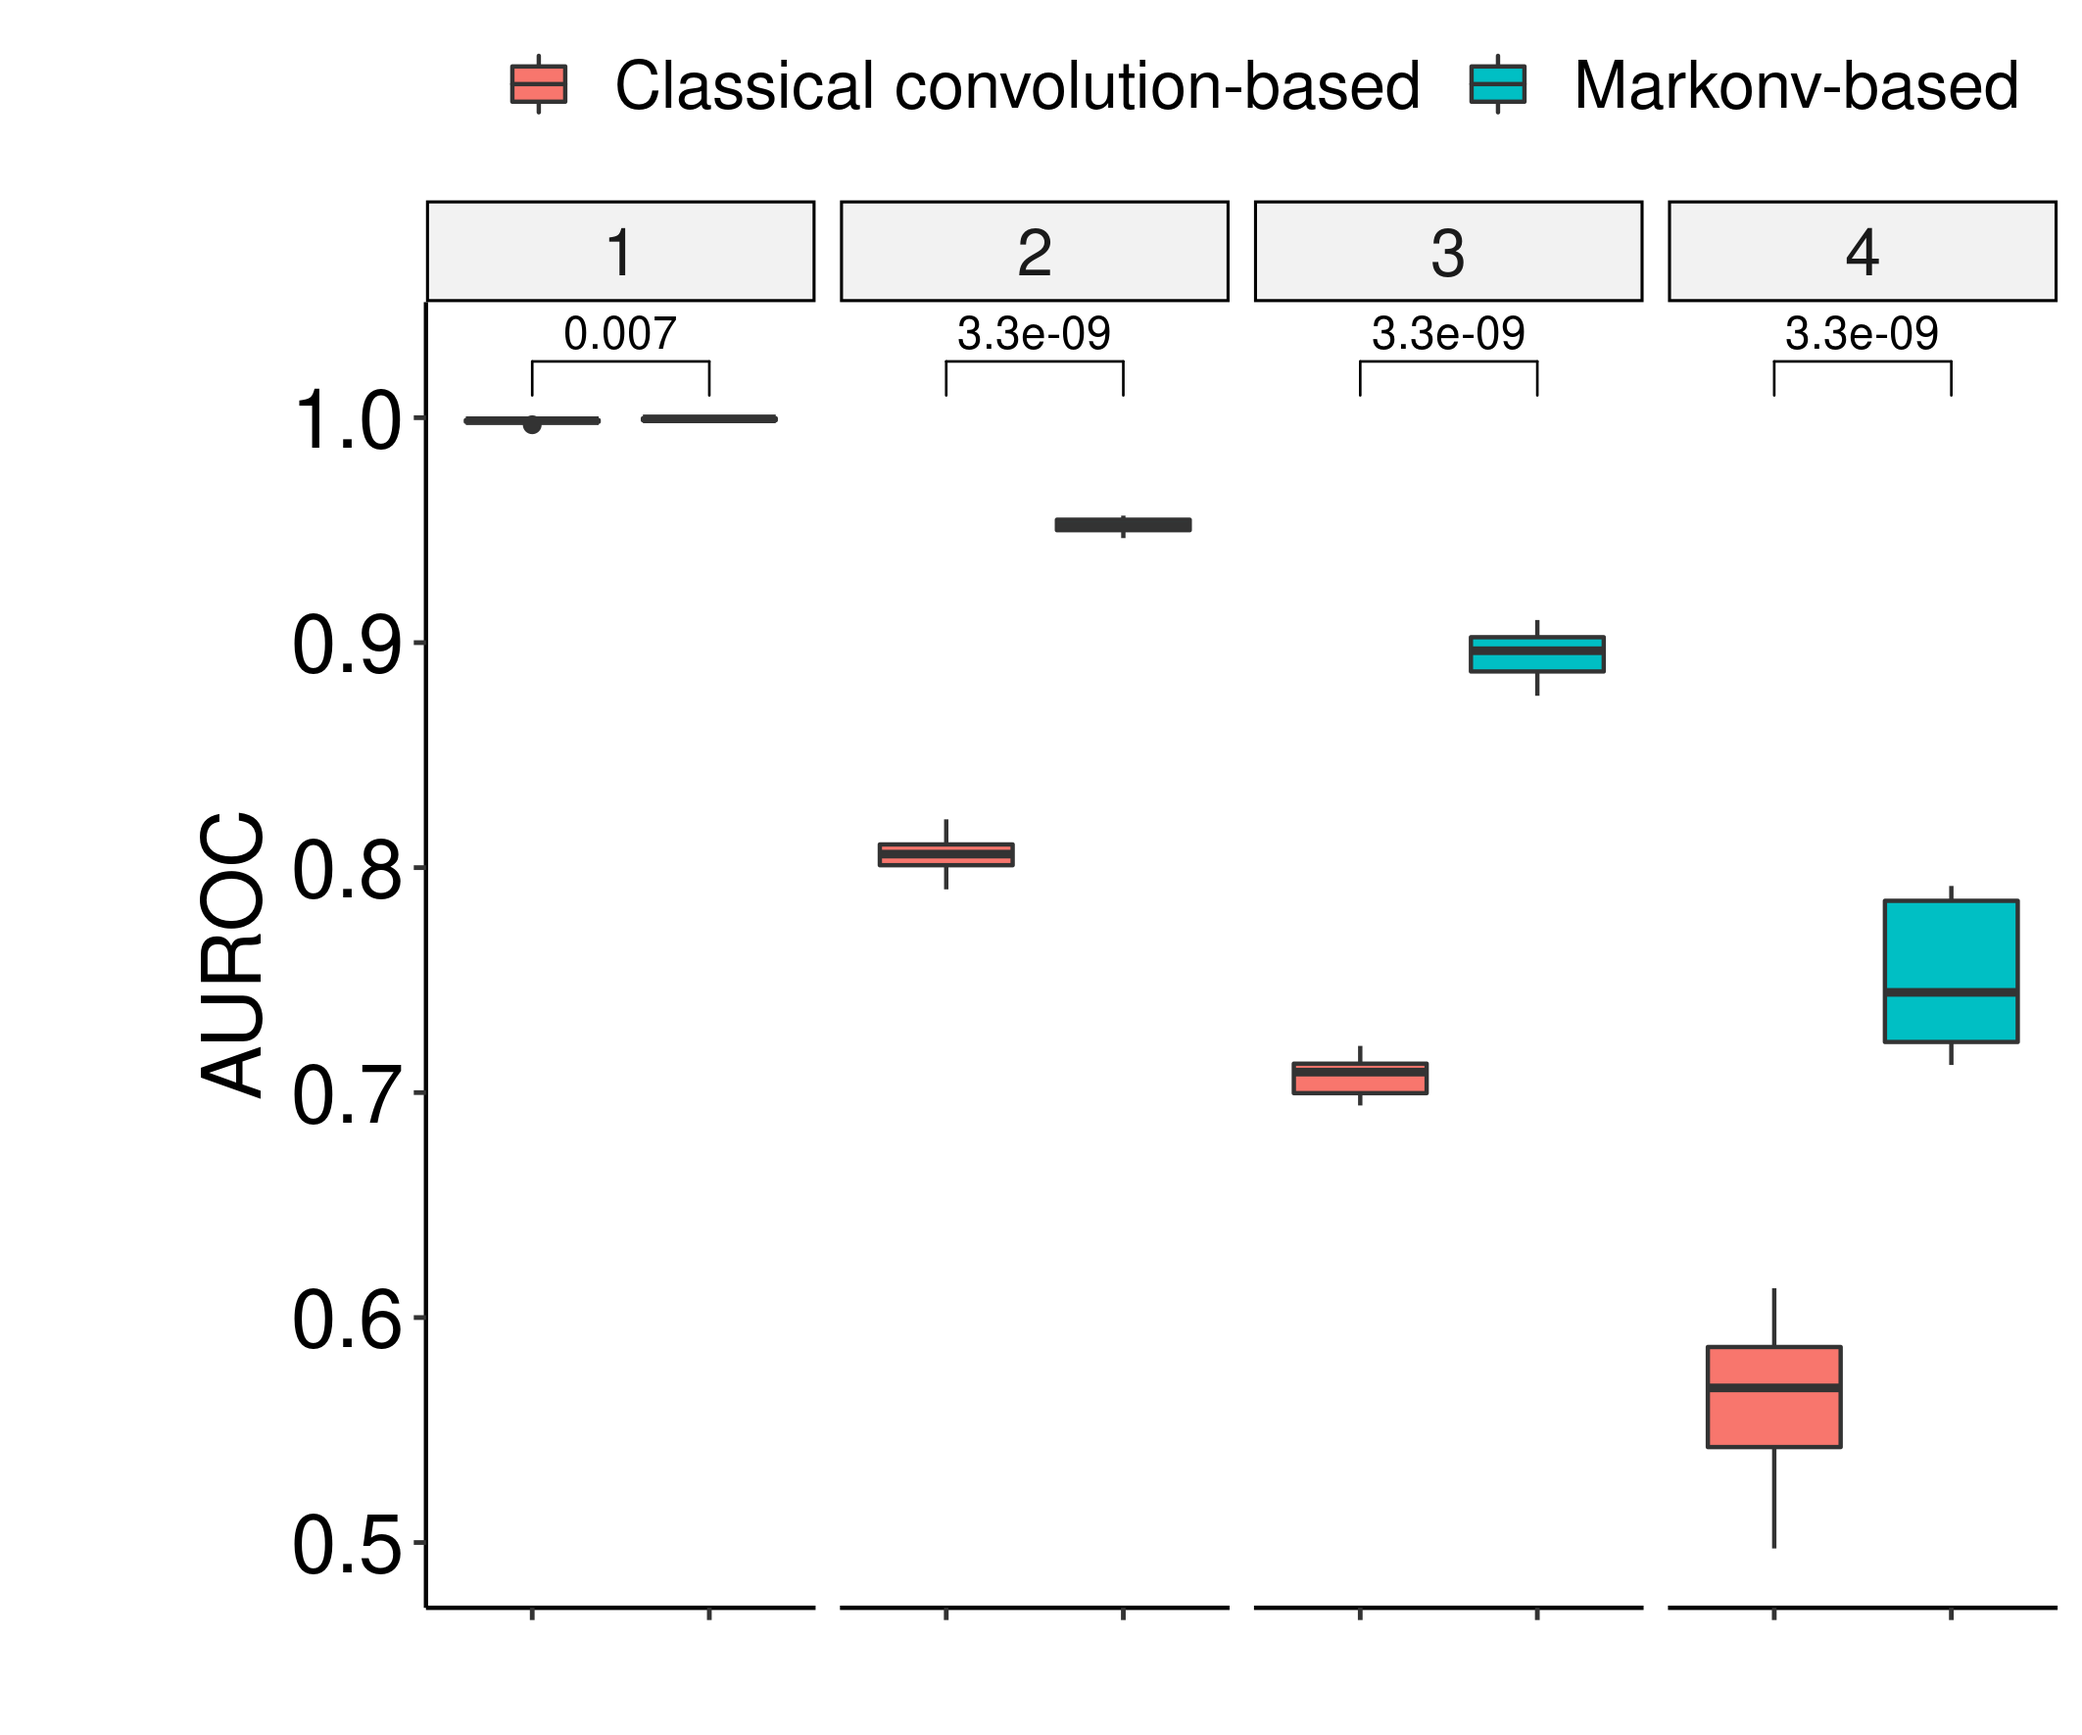
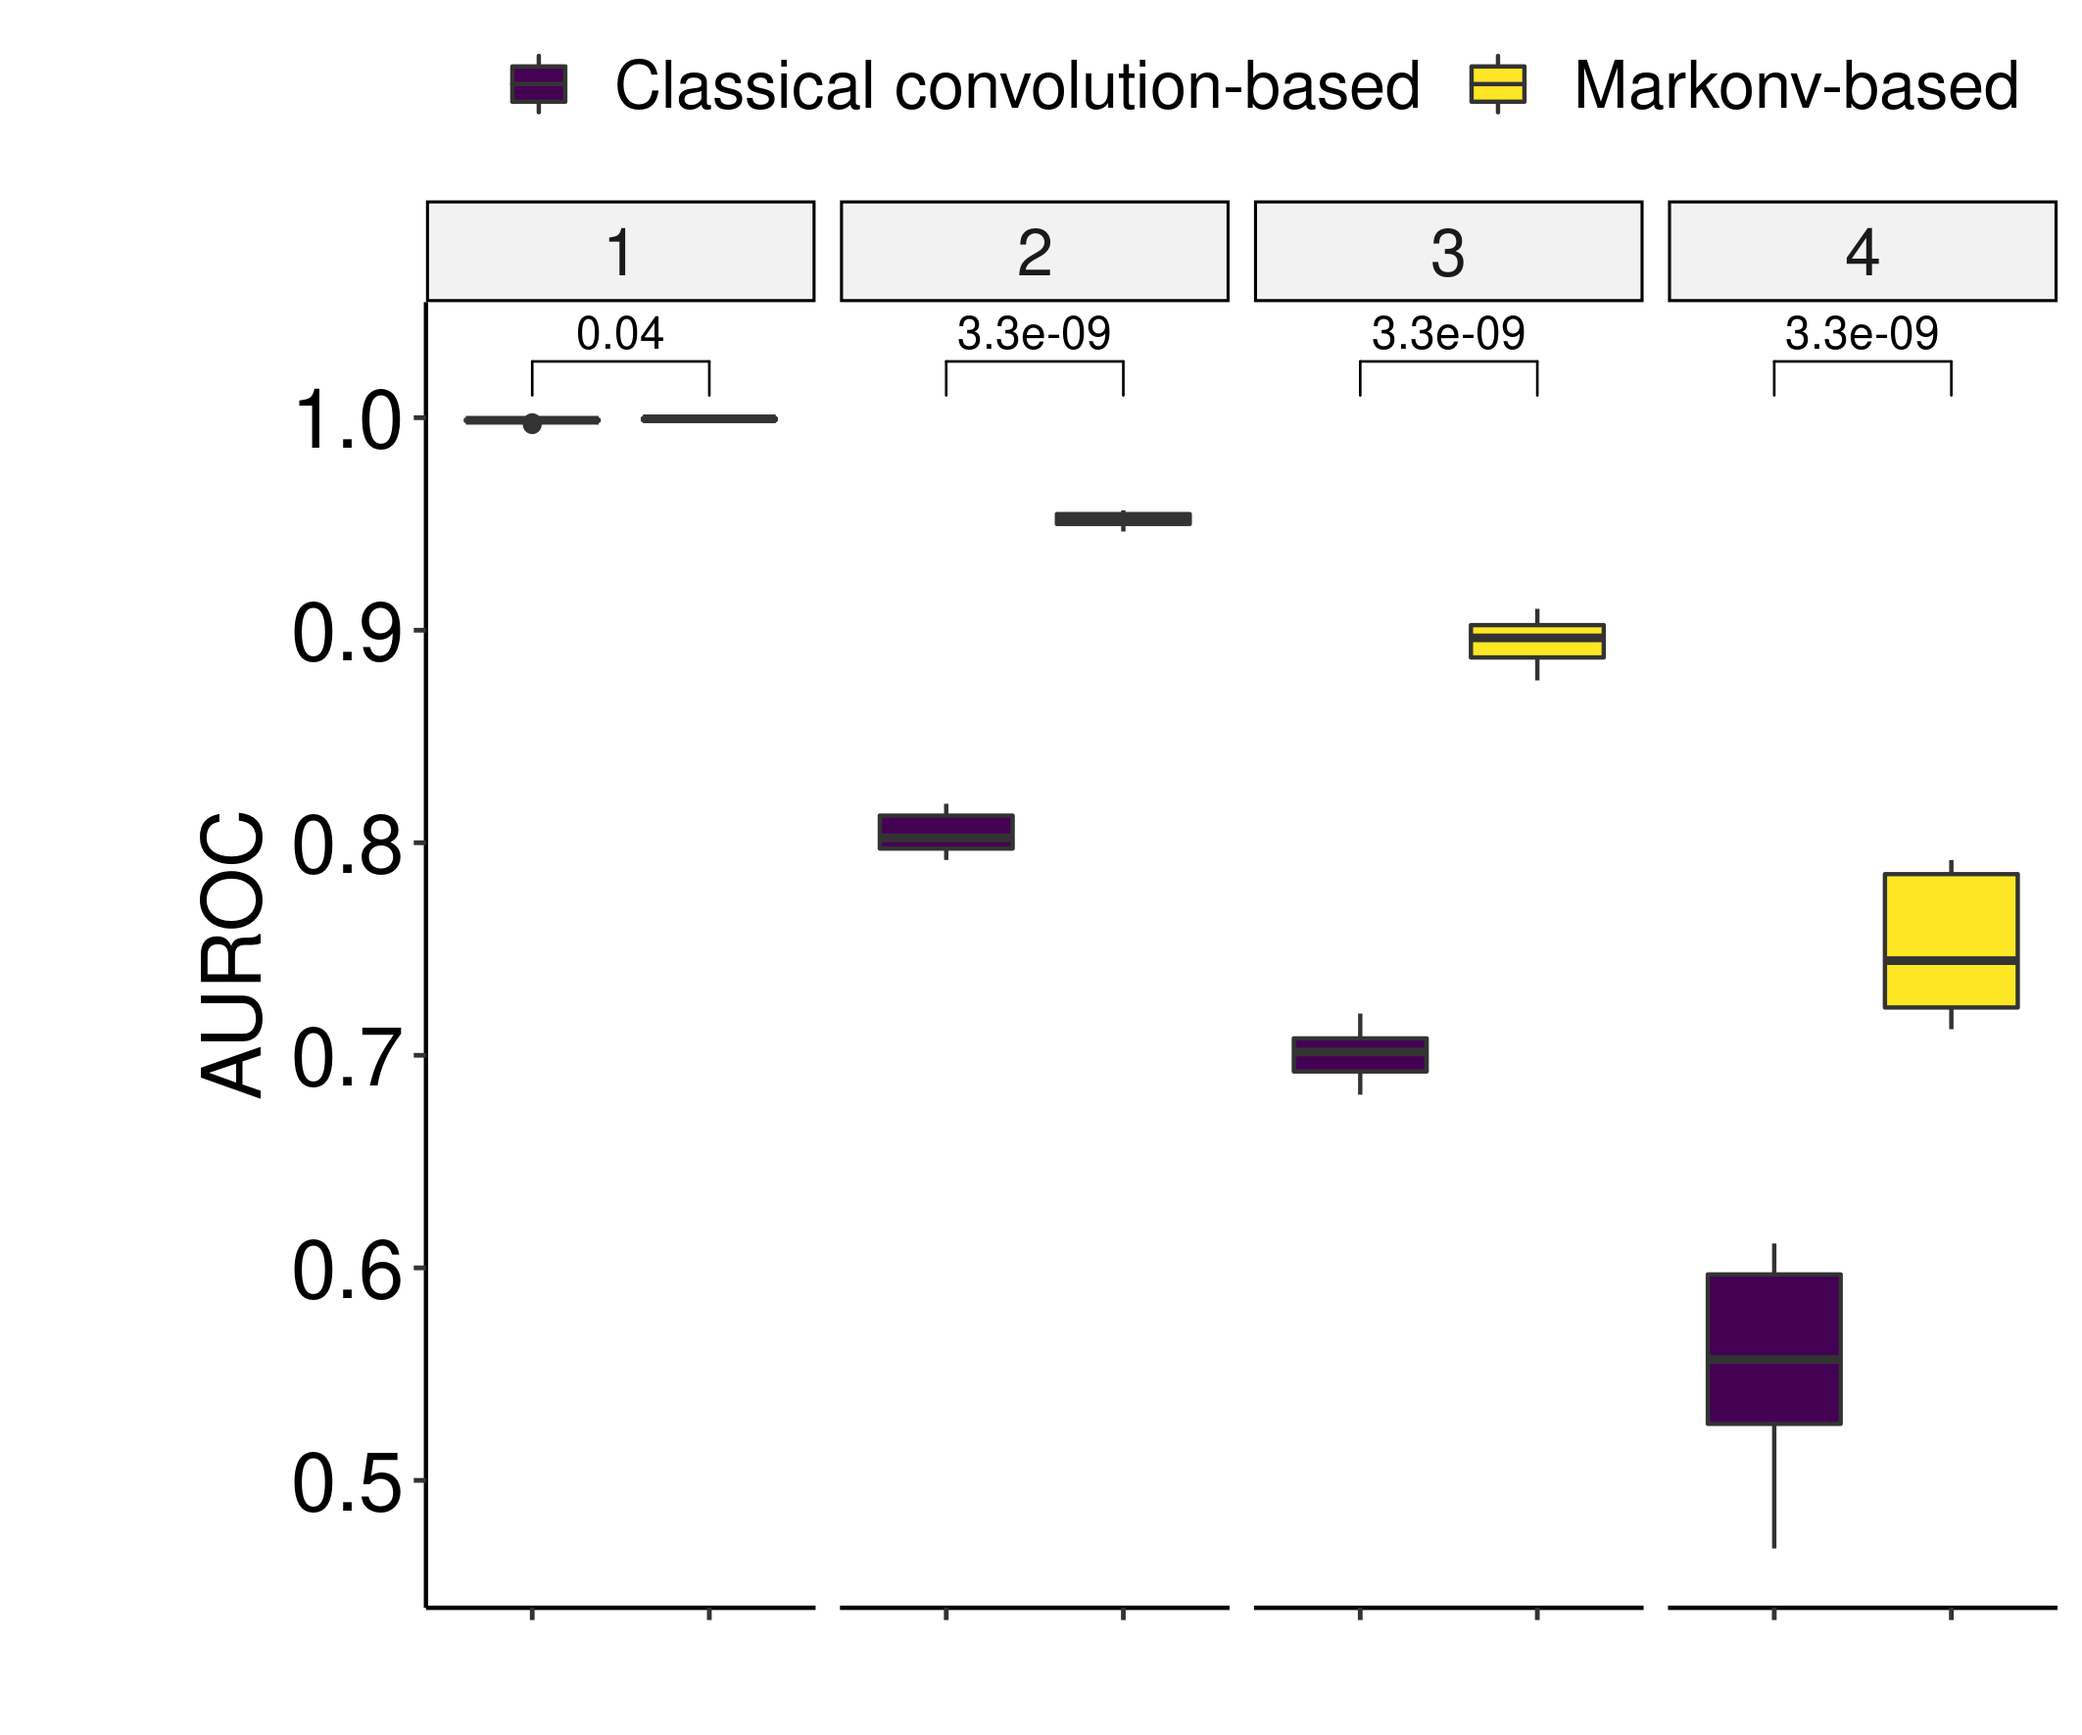
change color and direction of figures

diff --git a/external/simulation/GeneRateMarcov.py b/external/simulation/GeneRateMarcov.py
@@ -140,9 +140,9 @@ def visualize(path, lenlist, seed, complexityChoice):
                                 yticklabels=["A","C","G","T"],
                                 linewidths=0)
                     ax.set_yticklabels(ax.get_yticklabels(), rotation=0)
-                    ax.set_title("S1",fontsize=15)
+                    ax.set_title(r"$P_1$",fontsize=15)
                 else:
-                    sns.heatmap(MTM[:, :, k].reshape(4, 4),
+                    sns.heatmap(MTM[:, :, k].reshape(4, 4).T,
                                 ax=ax,
                                 annot=True,
                                 vmin=0,
@@ -152,7 +152,9 @@ def visualize(path, lenlist, seed, complexityChoice):
                                 xticklabels=["A","C","G","T"],
                                 yticklabels=False,
                                 linewidths=0)
-                    ax.set_title(f"S{k} → S{k+1}",fontsize=15)
+
+                    ktem = k+1
+                    ax.set_title(f"$P_{k} → P_{{{ktem}}}$",fontsize=15)
                 ax.xaxis.tick_top()
                 ax.tick_params(bottom=False,top=False,left=False,right=False)
 
@@ -205,10 +207,10 @@ def drawMotif():
                                 linewidths=0)
                     ax.set_yticklabels(ax.get_yticklabels(), rotation=0)
                     if i == 0:
-                        ax.set_title("S1", fontsize=18)
+                        ax.set_title(r"$P_{1}$", fontsize=18)
                 else:
                     if i == 0:
-                        sns.heatmap(MTM[:, :, k].reshape(4, 4),
+                        sns.heatmap(MTM[:, :, k].reshape(4, 4).T,
                                     ax=ax,
                                     annot=True,
                                     vmin=0,
@@ -218,10 +220,11 @@ def drawMotif():
                                     xticklabels=["A","C","G","T"],
                                     yticklabels=False,
                                     linewidths=0)
-                        ax.set_title(f"S{k} → S{k+1}", fontsize=18)
+                        ktem = k + 1
+                        ax.set_title(f"$P_{k} → P_{{{ktem}}}$", fontsize=18)
 
                     else:
-                        sns.heatmap(MTM[:, :, k].reshape(4, 4),
+                        sns.heatmap(MTM[:, :, k].reshape(4, 4).T,
                                     ax=ax,
                                     annot=True,
                                     vmin=0,
@@ -234,7 +237,7 @@ def drawMotif():
                 ax.xaxis.tick_top()
                 ax.tick_params(bottom=False,top=False,left=False,right=False)
             if i == 0:
-                axes[i,5].set_title(f"Motif {i+1} (entropy={entropy:.2f})\nS5 → S6", fontsize=18)
+                axes[i,5].set_title(f"Motif {i+1} (entropy={entropy:.2f})\n$P_{5} → P_{6}$", fontsize=18)
             else:
                 axes[i,5].set_title(f"Motif {i+1} (entropy={entropy:.2f})", fontsize=18)
     plt.tight_layout()

diff --git a/scripts/simulation/kernel2motif.py b/scripts/simulation/kernel2motif.py
@@ -115,27 +115,28 @@ def plot(loadpath, savepath, MTMreal):
                         fmt="s",
                         vmin=0,
                         vmax=1,
-                        cmap=sns.light_palette("#2ecc71", as_cmap=True),
+                        cmap=sns.color_palette("light:#5A9", as_cmap=True),
                         cbar=False,
                         xticklabels=[" "],
                         yticklabels=["A","C","G","T"],
                         linewidths=0)
             ax.set_yticklabels(ax.get_yticklabels(), rotation=0)
-            ax.set_title("S1", fontsize=15)
+            ax.set_title(r"$P_1$", fontsize=15)
         else:
-            drawmatrix = MTM[:, :, k].reshape(4, 4)
+            drawmatrix = MTM[:, :, k].reshape(4, 4).T
             sns.heatmap(drawmatrix,
                         ax=ax,
                         annot=two_decimal(drawmatrix),
                         fmt="s",
                         vmin=0,
                         vmax=1,
-                        cmap=sns.light_palette("#2ecc71", as_cmap=True),
+                        cmap=sns.color_palette("light:#5A9", as_cmap=True),
                         cbar=False,
                         xticklabels=["A","C","G","T"],
                         yticklabels=False,
                         linewidths=0)
-            ax.set_title(f"S{k} → S{k+1}", fontsize=15)
+            ktem = k + 1
+            ax.set_title(f"$P_{k} → P_{{{ktem}}}$", fontsize=15)
         ax.xaxis.tick_top()
         ax.tick_params(bottom=False,top=False,left=False,right=False)
 

diff --git a/scripts/simulation2merShuffle/kernel2motif.py b/scripts/simulation2merShuffle/kernel2motif.py
@@ -121,9 +121,9 @@ def plot(loadpath, savepath, MTMreal):
                         yticklabels=["A","C","G","T"],
                         linewidths=0)
             ax.set_yticklabels(ax.get_yticklabels(), rotation=0)
-            ax.set_title("S1", fontsize=15)
+            ax.set_title(r"$P_1$", fontsize=15)
         else:
-            drawmatrix = MTM[:, :, k].reshape(4, 4)
+            drawmatrix = MTM[:, :, k].reshape(4, 4).T
             sns.heatmap(drawmatrix,
                         ax=ax,
                         annot=two_decimal(drawmatrix),
@@ -135,7 +135,8 @@ def plot(loadpath, savepath, MTMreal):
                         xticklabels=["A","C","G","T"],
                         yticklabels=False,
                         linewidths=0)
-            ax.set_title(f"S{k} → S{k+1}", fontsize=15)
+            ktem = k + 1
+            ax.set_title(f"$P_{k} → P_{{{ktem}}}$", fontsize=15)
         ax.xaxis.tick_top()
         ax.tick_params(bottom=False,top=False,left=False,right=False)
 

diff --git a/scripts/bonito/Compare_param.py b/scripts/bonito/Compare_param.py
@@ -22,13 +22,13 @@ def main():
     """
     ####load feature
 
-    modelsize = {"Markonv-basde bonito":9115728, "Bonito":27008104}
+    modelsize = {"Markonv-based bonito":9115728, "Bonito":27008104}
 
     result = pd.read_csv("../../result/bonito/bonito_multiple_seeds.tsv",sep="\t")
 
-    # read_acc = {"Markonv-basde bonito":result["read_markonv"], "Bonito":result["read_conv"]}
+    # read_acc = {"Markonv-based bonito":result["read_markonv"], "Bonito":result["read_conv"]}
 
-    namelist = ["Markonv-basde bonito"]*len(result["read_markonv"])+["Bonito"]*len(result["read_markonv"])
+    namelist = ["Markonv-based bonito"]*len(result["read_markonv"])+["Bonito"]*len(result["read_markonv"])
     Readacc = list(result["read_markonv"])+list(result["read_conv"])
     sizelist = [(9.115728/3)**2]*len(result["read_markonv"])+[(27.008104/3)**2]*len(result["read_markonv"])
     consensusacc =list(result["assembly_markonv"])+list(result["assembly_conv"])
